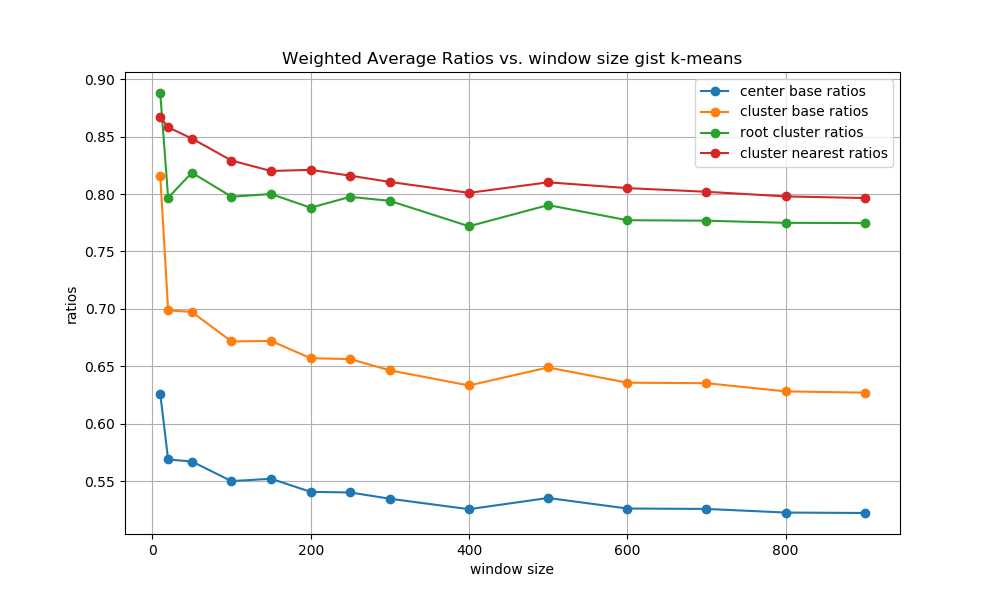
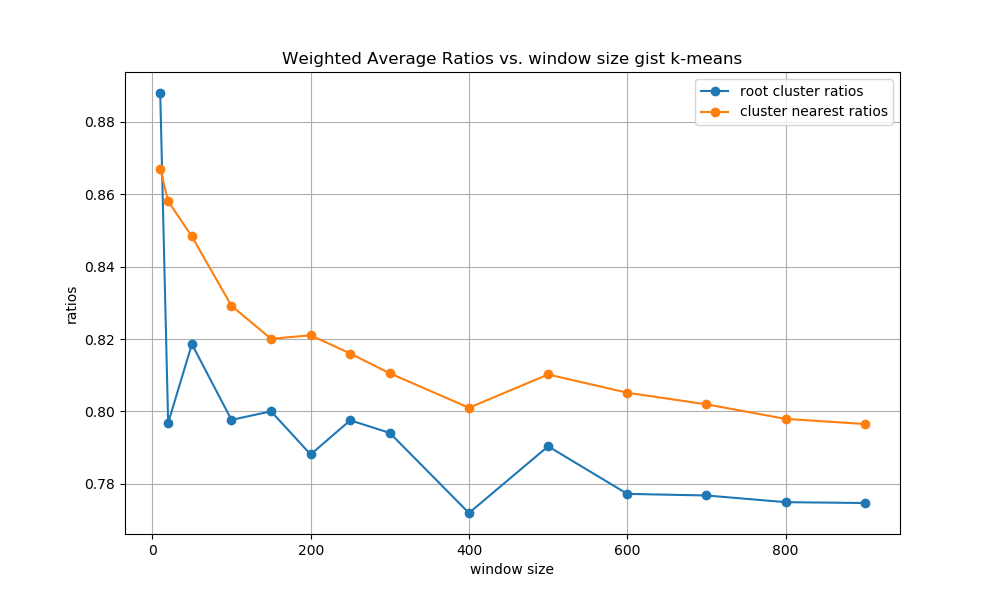
24/05/28: update trace analysis code

diff --git a/trace_analysis/trace_analysis.py b/trace_analysis/trace_analysis.py
@@ -245,6 +245,42 @@ def cal_combined_ratios(queries, bases, n_clusters, cluster_method='k-means'):
     # Return the tuple of lists including cluster sizes
     return (ratio1_list, ratio2_list, ratio3_list, ratio4_list, cluster_sizes)
 
+
+def cal_combined_ratios_56(kmeans:KMeans, curr_query: np.ndarray, groundtruths: np.ndarray, bases: np.ndarray, n_clusters, cluster_method='k-means'):
+    cluster_centers = kmeans.cluster_centers_
+    labels = kmeans.labels_
+
+    # Calculate the centroid of the base vectors
+    base_centroid = np.mean(bases, axis=0)
+
+    # 距离 curr_query 最近的 cluster_center 的 index
+    curr_query_to_cluster_centers_distances = cdist([curr_query], cluster_centers, 'euclidean')
+    nearest_cluster_center_to_curr_query_index = np.argmin(curr_query_to_cluster_centers_distances)
+    nearest_cluster_center = cluster_centers[nearest_cluster_center_to_curr_query_index]
+
+    # 最近聚类中心到最终结果距离
+    nearest_cluster_center_to_groundtruth_distances = cdist([nearest_cluster_center], groundtruths, 'euclidean')
+    avg_nearest_cluster_center_to_groundtruth_distance = np.mean(nearest_cluster_center_to_groundtruth_distances)
+
+    # 实验 5
+    # 计算 最近聚类中心到最终结果距离 / 质心到最终结果距离
+    base_centroid_to_groundtruth_distances = cdist([base_centroid], groundtruths, 'euclidean')
+    avg_base_centroid_to_groundtruth_distance = np.mean(base_centroid_to_groundtruth_distances)
+    
+    # 实验 6
+    # 计算 最近聚类中心到最终结果距离 / 随机点到最终结果距离
+    # Center to all base vectors distances
+    nearest_cluster_center_to_bases_distances = cdist([nearest_cluster_center], bases, 'euclidean')
+    random_point_index = np.argmin(nearest_cluster_center_to_bases_distances)
+    random_point_to_groundtruth_distances = cdist([bases[random_point_index]], groundtruths, 'euclidean')
+    avg_random_point_to_groundtruth_distance = np.mean(random_point_to_groundtruth_distances)
+
+    ratio5 = round(avg_nearest_cluster_center_to_groundtruth_distance / avg_base_centroid_to_groundtruth_distance, 3)
+    ratio6 = round(avg_nearest_cluster_center_to_groundtruth_distance / avg_random_point_to_groundtruth_distance, 3)
+
+    return (ratio5, ratio6, len(groundtruths))
+
+
 def cal_weighted_avg_ratio(ratio1_list, ratio2_list, ratio3_list, ratio4_list, cluster_sizes):
     # Initialize weighted sums and total weight counters
     weighted_sum1, weighted_sum2, weighted_sum3, weighted_sum4 = 0, 0, 0, 0
@@ -269,13 +305,14 @@ def cal_weighted_avg_ratio(ratio1_list, ratio2_list, ratio3_list, ratio4_list, c
 
     return (weighted_average1, weighted_average2, weighted_average3, weighted_average4)
 
+
 def plot_ratios(x_coords, ratio1_list, ratio2_list, ratio3_list, ratio4_list, trace_name, cluster_ratio, cluster_method='k-means'):
     # Create a plot
     plt.figure(figsize=(10, 6))
 
     # Plot each set of ratios
-    plt.plot(x_coords, ratio1_list, label='center base ratios', marker='o', linestyle='-')
-    plt.plot(x_coords, ratio2_list, label='cluster base ratios', marker='o', linestyle='-')
+    # plt.plot(x_coords, ratio1_list, label='center base ratios', marker='o', linestyle='-')
+    # plt.plot(x_coords, ratio2_list, label='cluster base ratios', marker='o', linestyle='-')
     plt.plot(x_coords, ratio3_list, label='root cluster ratios', marker='o', linestyle='-')
     plt.plot(x_coords, ratio4_list, label='cluster nearest ratios', marker='o', linestyle='-')
 
@@ -291,68 +328,133 @@ def plot_ratios(x_coords, ratio1_list, ratio2_list, ratio3_list, ratio4_list, tr
     plt.savefig(save_path)
     # plt.show()
 
-def process_files(trace_source_list):
+
+def plot_ratios_56(x_coords, ratio5_list, ratio6_list, trace_name, cluster_ratio, cluster_method = 'k-means'):
+     # Create a plot
+    plt.figure(figsize=(10, 6))
+
+    plt.plot(x_coords, ratio5_list, label='cluster centroid ratios', marker=None, linestyle='-')
+    plt.plot(x_coords, ratio6_list, label='cluster random ratios', marker=None, linestyle='-')
+
+    # Adding labels and title
+    plt.xlabel('queries')
+    plt.ylabel('ratios')
+    plt.title(f'Average Ratios {trace_name} {cluster_method}')
+    plt.legend()
+
+    # Show the plot
+    plt.grid(True)
+    save_path = os.path.join('trace_analysis', 'figs_new', f'queries_vs_ratios_{trace_name}_{cluster_ratio}_{cluster_method}.png')
+    plt.savefig(save_path)
+
+
+def process_files(trace_source_list, expts: list):
     for trace_source in trace_source_list:
         trace_name, source = os.path.splitext(os.path.basename(trace_source))
         if source == '.bigann':
             # 读取数据
             groundtruth_vectors = load_ivecs(os.path.join('dataset', trace_name, f'{trace_name}_groundtruth.ivecs'))
             query_vectors = load_fvecs(os.path.join('dataset', trace_name, f'{trace_name}_query.fvecs'))
-            base_vectors = load_fvecs(os.path.join('dataset', trace_name, f'{trace_name}_base.fvecs'), 10) # base向量过多，可以进行间隔采样以降低计算复杂度
+            base_vectors = load_fvecs(os.path.join('dataset', trace_name, f'{trace_name}_base.fvecs')) # base向量过多，可以进行间隔采样以降低计算复杂度
 
             # 查询距离-结果重合率散点图
             # 魔改轮廓系数
-            # cluster_ratio = 5
-            # window_sizes = [20, 50, 200, 500, 1000]
-            # if trace_name == 'sift': # sift数据集query向量数量为10000，可以扩大窗口
-            #     window_sizes.extend([2000, 4000])
-            # for window_size in window_sizes:
-            #     cluster_num = window_size//cluster_ratio
-            #     print(f"{trace_name}: window_size={window_size}, cluster_num={cluster_num}")
-            #     query_vectors_window = query_vectors[:window_size]
-            #     groundtruth_vectors_window = groundtruth_vectors[:window_size]
+            if (expts[0]):
+                cluster_ratio = 5
+                window_sizes = [20, 50, 200, 500, 1000]
+                if trace_name == 'sift': # sift数据集query向量数量为10000，可以扩大窗口
+                    window_sizes.extend([2000, 4000])
+                for window_size in window_sizes:
+                    cluster_num = window_size//cluster_ratio
+                    print(f"{trace_name}: window_size={window_size}, cluster_num={cluster_num}")
+                    query_vectors_window = query_vectors[:window_size]
+                    groundtruth_vectors_window = groundtruth_vectors[:window_size]
+
+                    # 查询距离-结果重合率散点图
+                    distances = cal_euclidean_distances(query_vectors_window)
+                    overlaps = cal_overlap(groundtruth_vectors_window)
+                    plot_distances_vs_overlap(distances, overlaps, trace_name, window_size)
+
+                    # 魔改轮廓系数
+                    # 在命令行输出，不会保存到文件
+
+                    alt_silhouette_coefficient, cluster_size = cal_alt_silhouette_coefficient(np.array(query_vectors_window), np.array(base_vectors), cluster_num)
+                    print(f"Alternative Silhouette Coefficient for {trace_name}: {alt_silhouette_coefficient}")
+                    print(f"                               Cluster Size: {cluster_size}")
             
-                # 查询距离-结果重合率散点图
-                # distances = cal_euclidean_distances(query_vectors_window)
-                # overlaps = cal_overlap(groundtruth_vectors_window)
-                # plot_distances_vs_overlap(distances, overlaps, trace_name, window_size)
-                
-                # 魔改轮廓系数
-                # 在命令行输出，不会保存到文件
-                
-                # alt_silhouette_coefficient, cluster_size = cal_alt_silhouette_coefficient(np.array(query_vectors_window), np.array(base_vectors), cluster_num)
-                # print(f"Alternative Silhouette Coefficient for {trace_name}: {alt_silhouette_coefficient}")
-                # print(f"                               Cluster Size: {cluster_size}")
-            
+            # 空间局部性实验 1, 2, 3, 4
             # 簇到base平均距离
-            cluster_ratios = [5, 10] # query向量数与聚类中心数之比
-            cluster_methods = ['k-means', 'random'] # 聚类方法
-            window_sizes = [] # 窗口大小
-            window_sizes.append(10)
-            window_sizes.append(20)
-            window_sizes.extend(range(50, 300, 50))
-            window_sizes.extend(range(300, 1000, 100))
-            if trace_name == 'sift': # sift数据集query向量数量为10000，可以扩大窗口
-                window_sizes.extend(range(1000, 4200, 200))
-            for cluster_method in cluster_methods:
-                for cluster_ratio in cluster_ratios:
-                    avg_center_base_ratios, avg_cluster_base_ratios, avg_root_cluster_ratios, avg_cluster_nearest_ratios = [], [], [], [] # 使用不同窗口大小时的比例，用于做图
-                    for window_size in window_sizes:
-                        cluster_num = window_size//cluster_ratio
-                        # query vectors window
-                        query_vectors_window = query_vectors[:window_size]
-                        print(f"{trace_name}: window_size={window_size}, cluster_num={cluster_num}")
-                        
-                        # 各簇对应比例系数以及簇的大小
-                        center_base_ratios, cluster_base_ratios, root_cluster_ratios, cluster_nearest_ratios, cluster_sizes = cal_combined_ratios(np.array(query_vectors_window), np.array(base_vectors), cluster_num, cluster_method)
-                        # 以簇大小为权重求加权平均
-                        avg_ratios = cal_weighted_avg_ratio(center_base_ratios, cluster_base_ratios, root_cluster_ratios, cluster_nearest_ratios, cluster_sizes)
-                        avg_center_base_ratios.append(avg_ratios[0])
-                        avg_cluster_base_ratios.append(avg_ratios[1])
-                        avg_root_cluster_ratios.append(avg_ratios[2])
-                        avg_cluster_nearest_ratios.append(avg_ratios[3])
-                    plot_ratios(window_sizes, avg_center_base_ratios, avg_cluster_base_ratios, avg_root_cluster_ratios, avg_cluster_nearest_ratios, trace_name, cluster_ratio, cluster_method)
+            if (expts[1]):
+                cluster_ratios = [10] # query向量数与聚类中心数之比
+                cluster_methods = ['k-means', 'random'] # 聚类方法
+                window_sizes = [] # 窗口大小
+                window_sizes.append(10)
+                window_sizes.append(20)
+                window_sizes.extend(range(50, 300, 50))
+                window_sizes.extend(range(300, 1000, 100))
+                if trace_name == 'sift': # sift数据集query向量数量为10000，可以扩大窗口
+                    window_sizes.extend(range(1000, 4200, 200))
+                for cluster_method in cluster_methods:
+                    for cluster_ratio in cluster_ratios:
+                        avg_center_base_ratios, avg_cluster_base_ratios, avg_root_cluster_ratios, avg_cluster_nearest_ratios = [], [], [], [] # 使用不同窗口大小时的比例，用于做图
+                        for window_size in window_sizes:
+                            cluster_num = window_size//cluster_ratio
+                            # query vectors window
+                            query_vectors_window = query_vectors[:window_size]
+                            print(f"{trace_name}: window_size={window_size}, cluster_num={cluster_num}")
+
+                            # 各簇对应比例系数以及簇的大小
+                            center_base_ratios, cluster_base_ratios, root_cluster_ratios, cluster_nearest_ratios, cluster_sizes = cal_combined_ratios(np.array(query_vectors_window), np.array(base_vectors), cluster_num, cluster_method)
+                            # 以簇大小为权重求加权平均
+                            avg_ratios = cal_weighted_avg_ratio(center_base_ratios, cluster_base_ratios, root_cluster_ratios, cluster_nearest_ratios, cluster_sizes)
+                            avg_center_base_ratios.append(avg_ratios[0])
+                            avg_cluster_base_ratios.append(avg_ratios[1])
+                            avg_root_cluster_ratios.append(avg_ratios[2])
+                            avg_cluster_nearest_ratios.append(avg_ratios[3])
+                        plot_ratios(window_sizes, avg_center_base_ratios, avg_cluster_base_ratios, avg_root_cluster_ratios, avg_cluster_nearest_ratios, trace_name, cluster_ratio, cluster_method)
         
+            # 补: 空间局部性实验 5, 6
+            if (expts[2]):
+                cluster_ratio = 10
+                ratio5_list, ratio6_list, x_coords = [], [], []   
+                # 要聚类的 N 个 queries
+                queries_to_cluster = []
+                # 存储 kmeans
+                kmeans_list = []
+                # 顺序处理每个 query
+                # for i in range(len(query_vectors)):
+                for i in range(400):
+                    # 当前 query
+                    curr_query = query_vectors[i]
+
+                    # 当为 100 的倍数时计算聚类
+                    if ((i + 1) % 100 == 0):
+                        # 计算 KMeans
+                        cluster_num = (i + 1) // 10
+                        kmeans = KMeans(n_clusters = cluster_num)
+                        kmeans.fit(np.array(queries_to_cluster))
+                        kmeans_list.append(kmeans)
+
+                    # 当聚类一次后开始计算
+                    if (i >= 99):
+                        # groundtruth: list
+                        curr_groundtruths = np.array(base_vectors).take(groundtruth_vectors[i], axis = 0)
+                        print(f"{trace_name}: curr_query={i}, cluster_num={cluster_num}")
+
+                        ratio5, ratio6, groundtruth_size = cal_combined_ratios_56(kmeans_list[(i + 1) // 100 - 1], 
+                                                                                   np.array(curr_query), 
+                                                                                   np.array(curr_groundtruths), 
+                                                                                   np.array(base_vectors), cluster_num)
+                        ratio5_list.append(ratio5)
+                        ratio6_list.append(ratio6)
+                        x_coords.append(i + 1)
+
+                    # 前 N-1 个queries 加入
+                    queries_to_cluster.append(curr_query)
+                # plot
+                plot_ratios_56(x_coords, ratio5_list, ratio6_list, trace_name, cluster_ratio)
+
+
         # 没找到完整数据集，只分析了groundtruth里面的重用距离
         elif source == '.yandex':
             file_path = os.path.join('dataset', trace_name, f'{trace_name}_groundtruth.bin')
@@ -365,8 +467,11 @@ def process_files(trace_source_list):
             continue
         
         # 重用距离cdf
-        # reuse_distances, total_searches = cal_reuse_distances(groundtruth_vectors)
-        # plot_reuse_distances_cdf(trace_name, reuse_distances, total_searches)
+        if (expts[0]):
+            reuse_distances, total_searches = cal_reuse_distances(groundtruth_vectors)
+            plot_reuse_distances_cdf(trace_name, reuse_distances, total_searches)
+
+
 
 if __name__ == "__main__":
     trace_source_list = [
@@ -376,4 +481,5 @@ if __name__ == "__main__":
         'gist.bigann',
         # 'sift.bigann',
         ]
-    process_files(trace_source_list)
+    # [查询距离-结果重合率散点图 + 魔改轮廓系数 + 重用距离cdf, 空间局部性实验1234，空间局部性实验56]
+    process_files(trace_source_list, [False, False, True])
